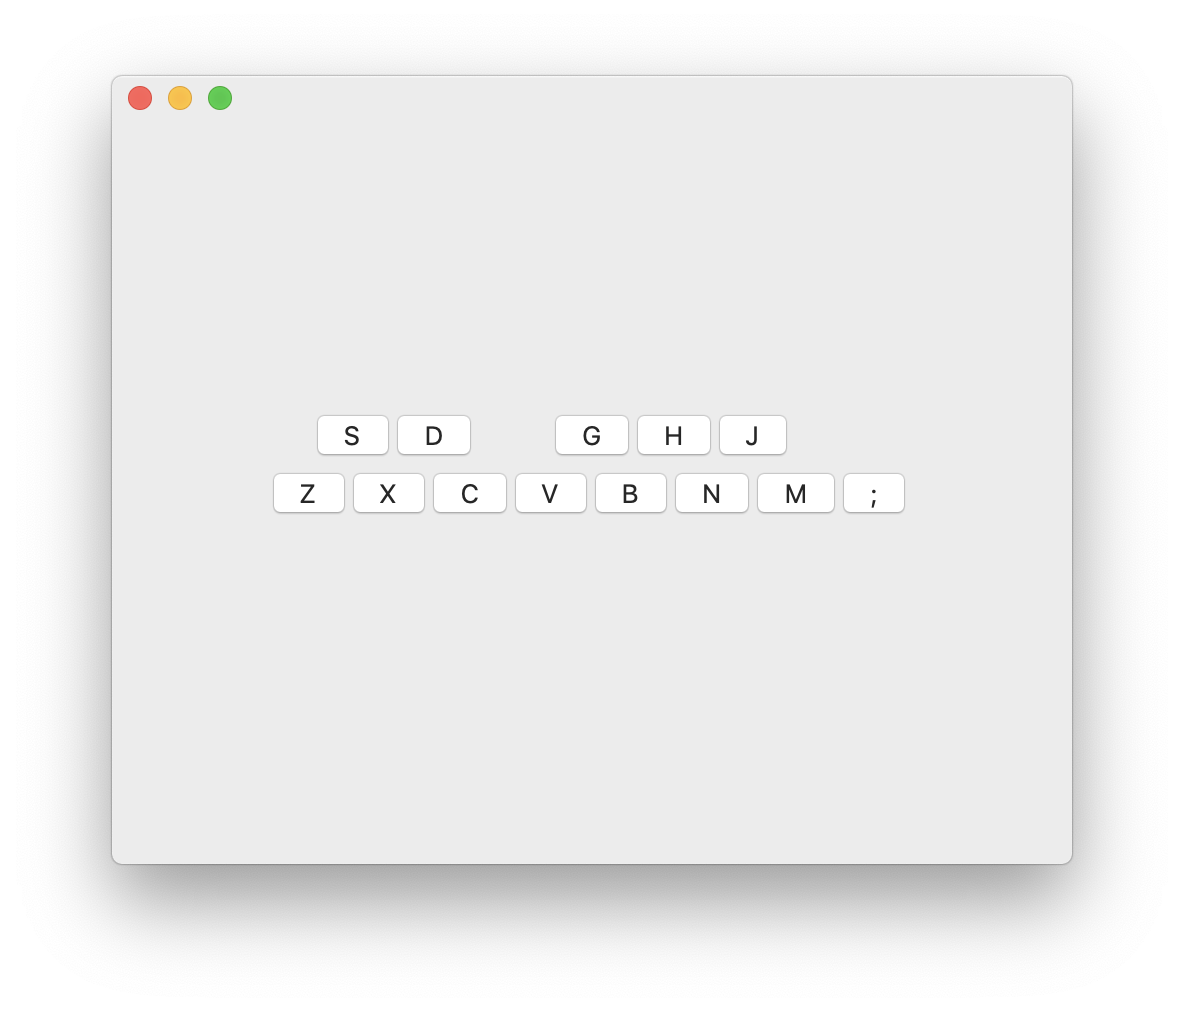
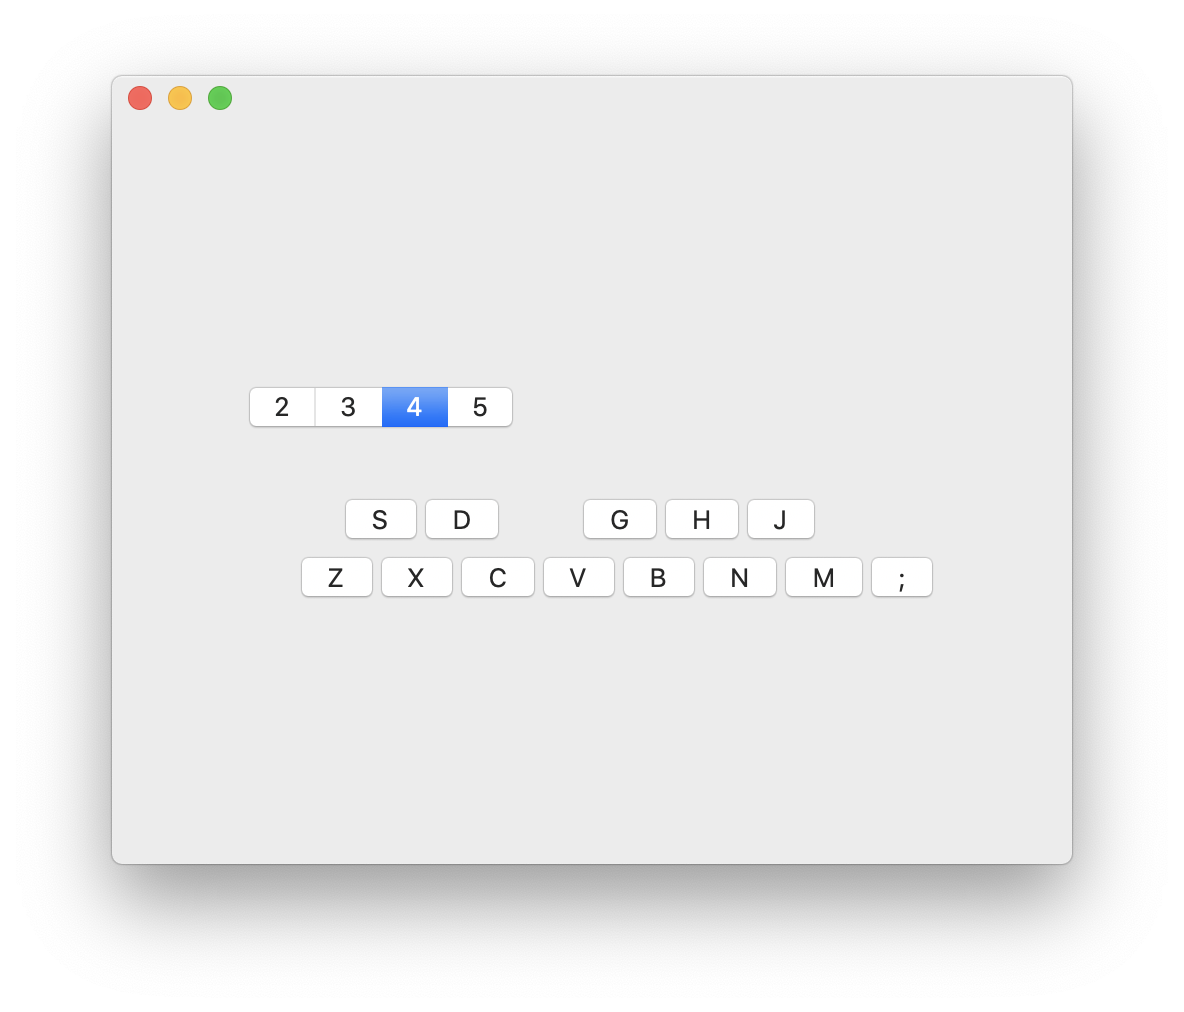
Set octave via SegmentedControl.

diff --git a/Chromatics/ViewController.swift b/Chromatics/ViewController.swift
@@ -13,7 +13,7 @@ struct Constants {
     static let twelfthRootOfTwo: Double = pow(2,(1/12))
     static let baseOctave: Int = 4
     static let minOctave: Int = 2
-    static let maxOctave: Int = 6
+    static let maxOctave: Int = 5
     static let halfstepsInOctave: Int = 12
 }
 
@@ -46,6 +46,13 @@ class ViewController: NSViewController {
         }
     }
 
+    @IBAction func octaveSegmentedControlAction(_ segmentedControl: OctaveSegmentedControl) {
+        
+        let octave = segmentedControl.selectedSegment + Constants.minOctave
+
+        octaveModifier = octave - Constants.baseOctave
+    }
+    
     var buttonCollection: [MusicalKeyButton] = []
     
     var oscillators: [UInt16: AKOscillator] = [:]
@@ -113,20 +120,6 @@ class ViewController: NSViewController {
         
         if let button = findButtonByKeyCode(event.keyCode) {
             button.highlight(true)
-        }
-
-        if(event.keyCode == 47) {
-            octaveModifier = max(
-                Constants.minOctave - Constants.baseOctave,
-                octaveModifier - 1
-            )
-        }
-
-        if(event.keyCode == 44) {
-            octaveModifier = min(
-                Constants.maxOctave - Constants.baseOctave,
-                octaveModifier + 1
-            )
         }
     }
 

diff --git a/Chromatics/OctaveSegmentedControl.swift b/Chromatics/OctaveSegmentedControl.swift
@@ -1,0 +1,24 @@
+//
+//  OctaveSegmentedControl.swift
+//  Chromatics
+//
+//  Created by Andreas Zecher
+//
+
+import Cocoa
+
+class OctaveSegmentedControl: NSSegmentedControl {
+
+    required init?(coder: NSCoder) {
+        super.init(coder: coder)
+        
+        self.segmentCount = Constants.maxOctave - Constants.minOctave + 1
+        
+        for n in 0 ..< self.segmentCount {
+            self.setLabel(String(n + Constants.minOctave), forSegment: n)
+        }
+        
+        self.selectedSegment = Constants.baseOctave - Constants.minOctave
+    }
+
+}
